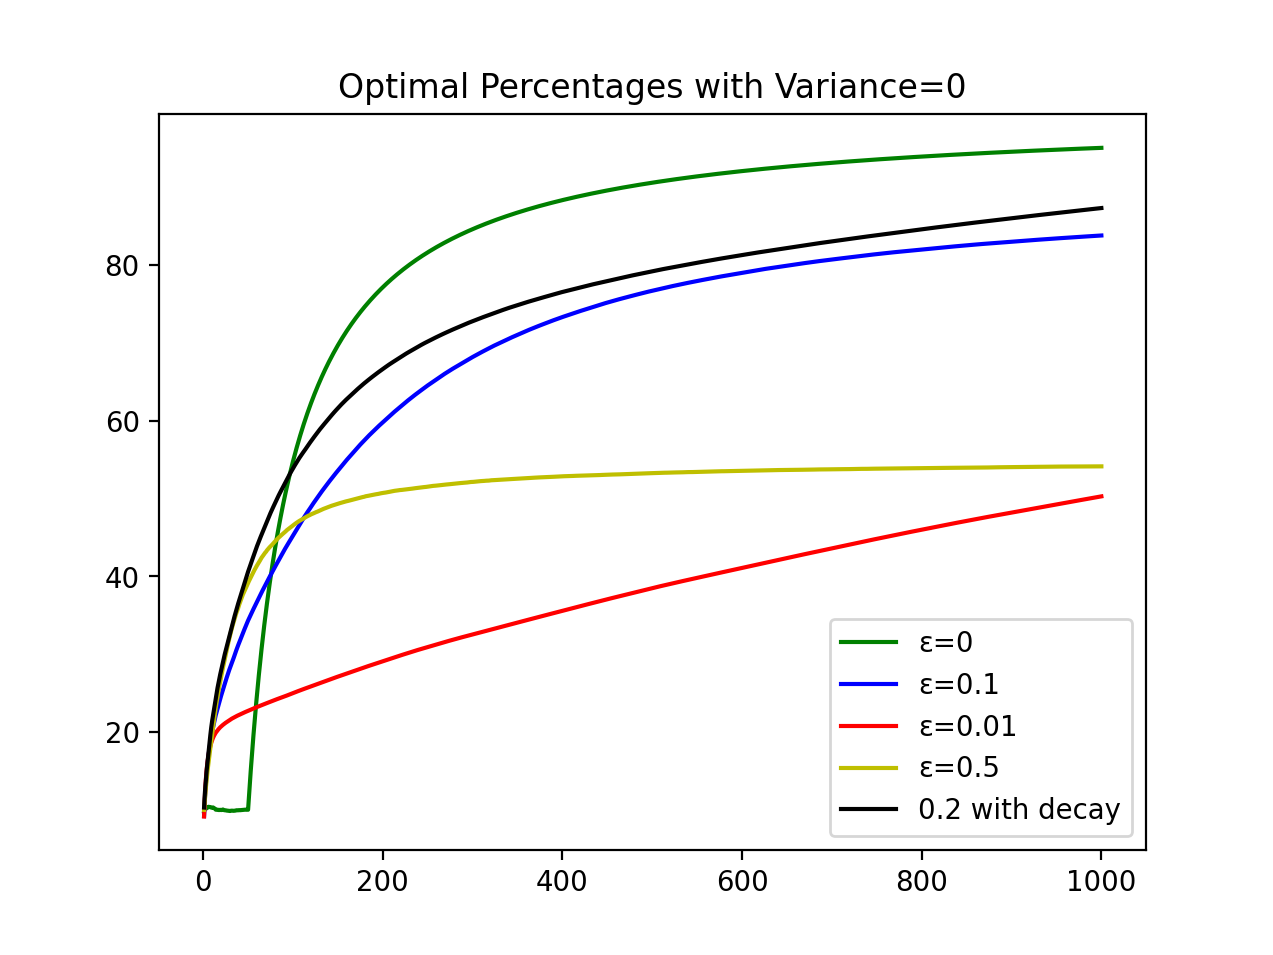
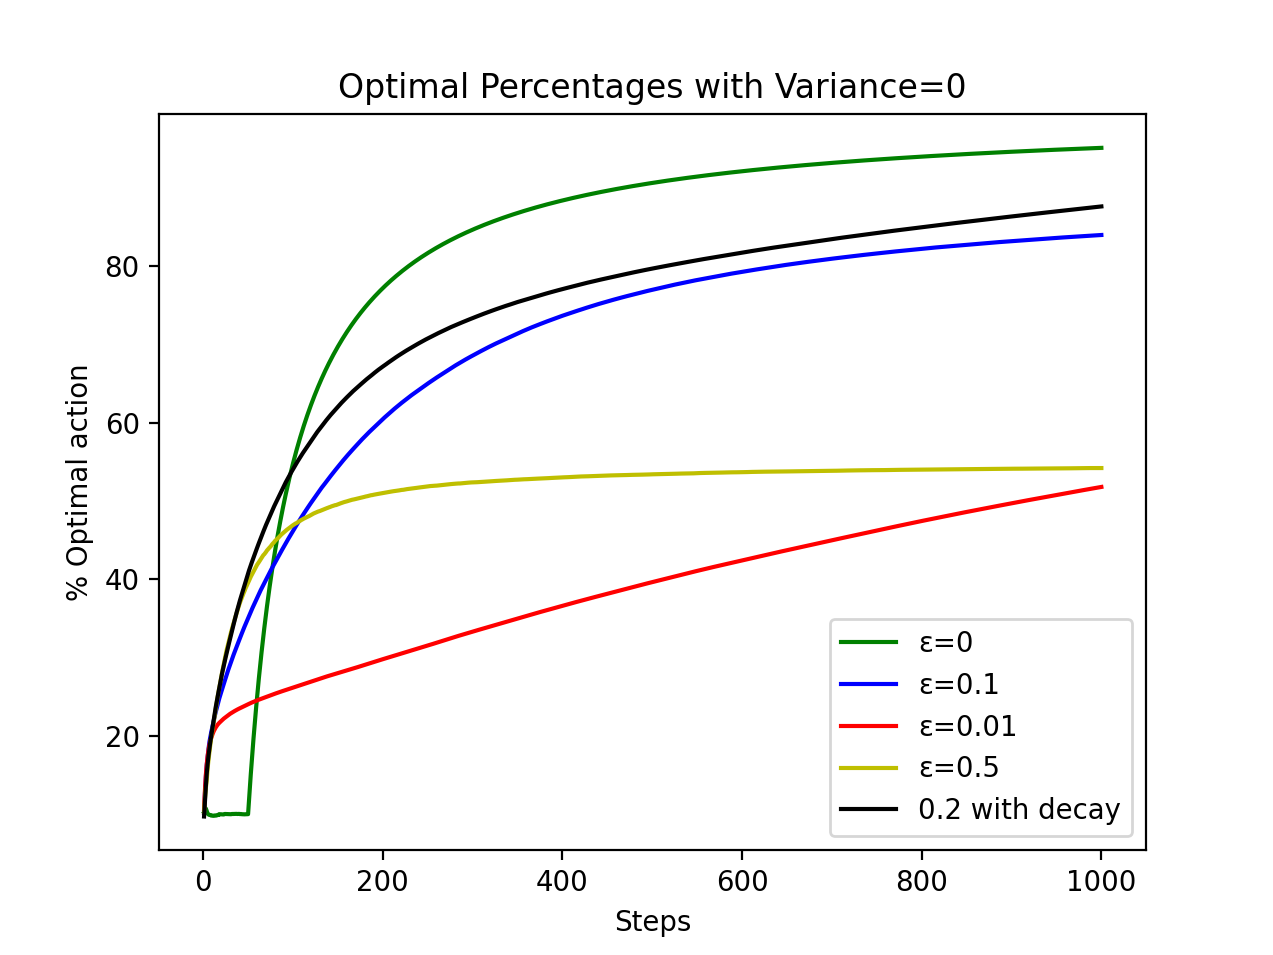
add axes labels

diff --git a/experiments/exploration_exploitation_bandit_stationary.py b/experiments/exploration_exploitation_bandit_stationary.py
@@ -71,7 +71,7 @@ def run_experiments(epsilon: float, decay=False, variance=1):
     return all_rewards.mean(axis=0), optimal_percentages.mean(axis=0)
 
 
-def plot_results(all_values, values_key, title, filename):
+def plot_results(all_values, values_key, title, ylabel, filename):
     for values in all_values:
         values_to_plot = values[values_key]
         props = values["props"]
@@ -83,6 +83,8 @@ def plot_results(all_values, values_key, title, filename):
             label=props.get("label", f"ε={values['epsilon']}"),
         )
     plt.title(title)
+    plt.xlabel("Steps")
+    plt.ylabel(ylabel)
     plt.legend()
     plt.savefig(filename, dpi=199)
     plt.show()
@@ -111,12 +113,14 @@ def run_and_plot_results(variance=1):
         all_rewards,
         "rewards",
         f"Rewards with Variance={variance}",
+        "Average reward",
         f"{directory}/rewards_var_{variance}.png",
     )
     plot_results(
         all_optimal_percentages,
         "optimal_percentages",
         f"Optimal Percentages with Variance={variance}",
+        "% Optimal action",
         f"{directory}/optimal_percentages_var_{variance}.png",
     )
 
